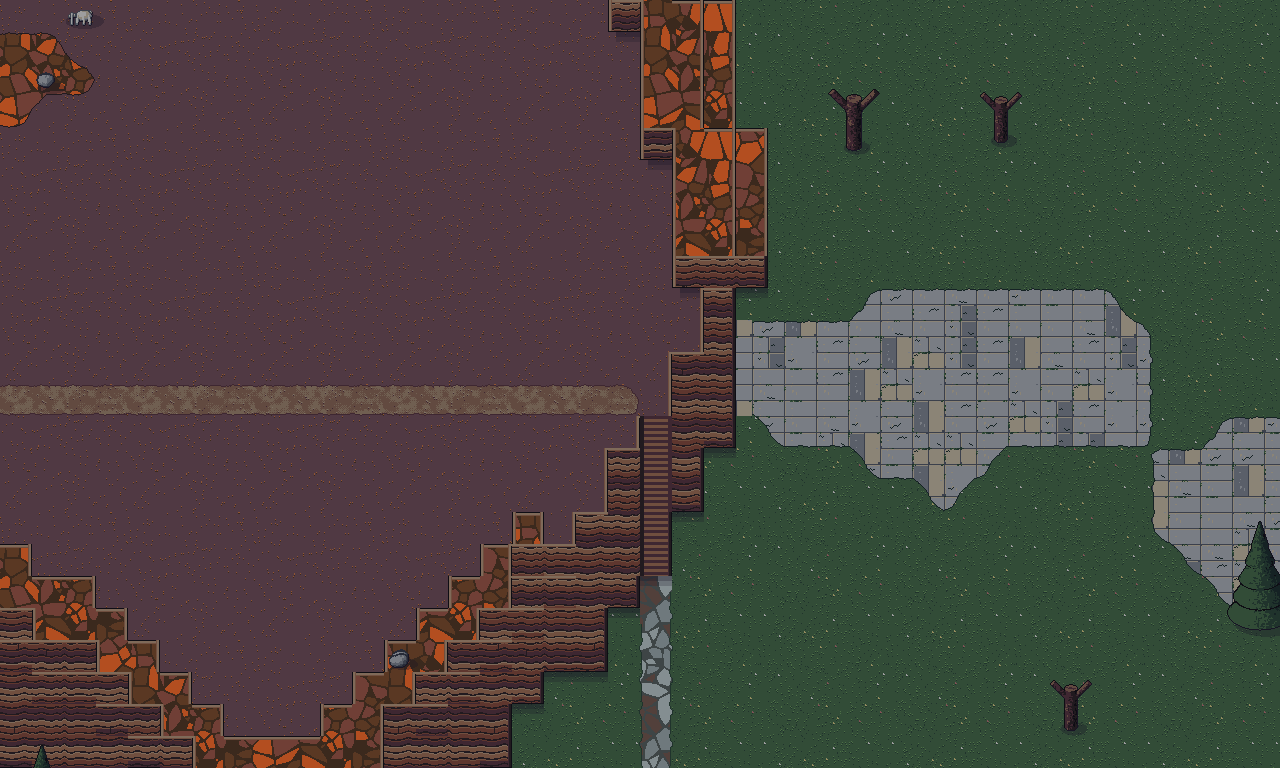
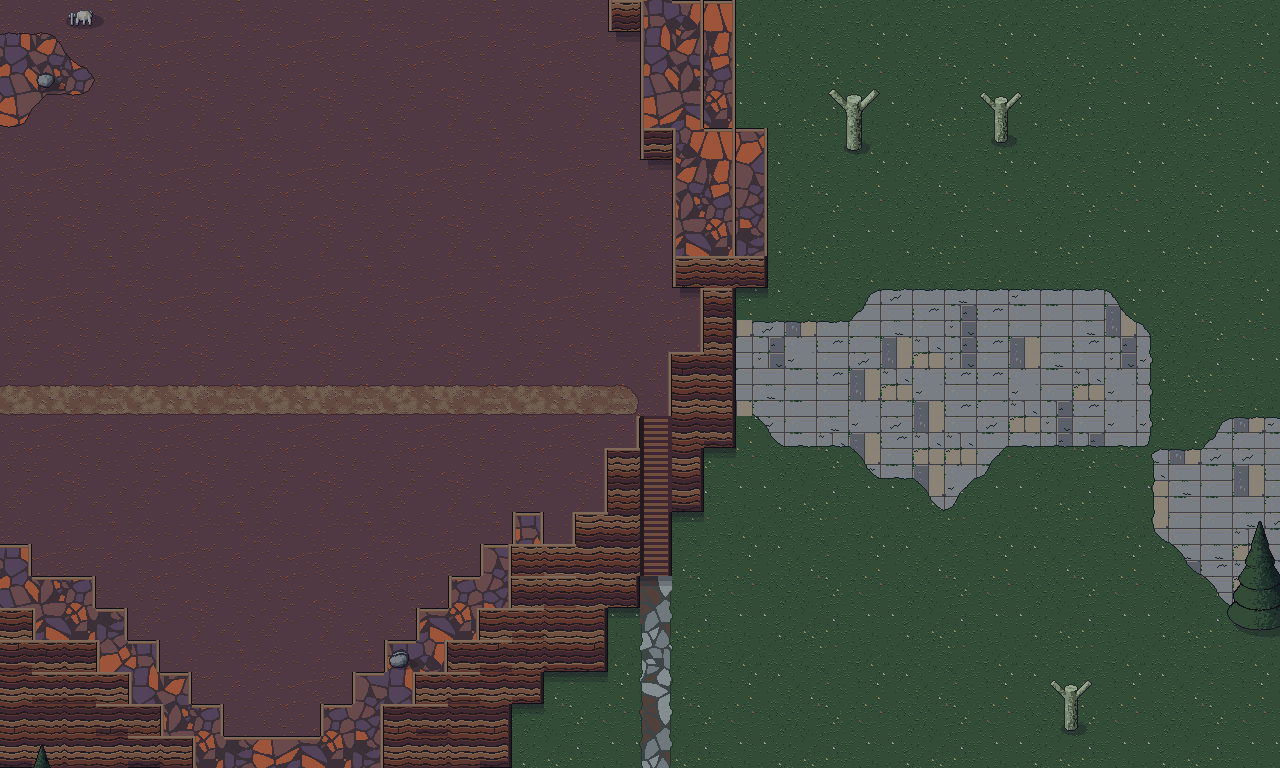
Modalita' cupa: rampe cupe dei materiali (trono nero e ruggine, tronchi muschiosi), isole della Frontiera piu' viola
Claude-Session: https://claude.ai/code/session_014ycMSkFAn8ixUvbSfrqtAR

diff --git a/tools/art/forge3d/terrain.py b/tools/art/forge3d/terrain.py
@@ -110,12 +110,12 @@ TERRAINS = {
     # livelli sotto; non si calpesta (water_mask). Il livello piu' basso: tutto il resto gli si disegna sopra
     "vuoto": dict(macro=8, ramp=["slate", "#76839c", "grey", "#a9b3c6"], ramp_cupo=["#939398", "#a6a9ad", "#babcbf", "#c8cbcf"], period=3, dither=0.6, detail="fog", rim=None,
                   level=-1, contrast=0.35, anim=4),
-    "nebbia": dict(macro=8, ramp=["#b8b0c8", "#cfc8db", "#e0dbe8", "#f0edf4"], ramp_cupo=["#231a20", "#3b3037", "#3b3037", "#574244"], period=3, dither=0.6, detail="fog", rim="light",
+    "nebbia": dict(macro=8, ramp=["#b8b0c8", "#cfc8db", "#e0dbe8", "#f0edf4"], ramp_cupo=["#231a20", "#352c3f", "#352c3f", "#4a3f55"], period=3, dither=0.6, detail="fog", rim="light",
                    rimc="#f0edf4", level=0.2, contrast=0.6, anim=4),
     # sabbia corallina: crema e avorio caldi, bianco solo nei riflessi (prima 3 bianchi su 4: sembrava neve)
     "sabbia_bianca": dict(ramp=["tan", "cream", "#f3e7cf", "white"], period=4, dither=0.5, detail="dots", rim="dark",
                           rimc="tan", level=2.2, contrast=0.45),
-    "erba_lilla": dict(macro=8, ramp=["#9a7fb0", "#b9a3cc", "#cdb8dc", "#e2d4ec"], ramp_cupo=["#3b3037", "#574244", "#615961", "#737076"], period=4, dither=0.5, detail="tufts", rim="dark",
+    "erba_lilla": dict(macro=8, ramp=["#9a7fb0", "#b9a3cc", "#cdb8dc", "#e2d4ec"], ramp_cupo=["#352c3f", "#4a3f55", "#615961", "#737076"], period=4, dither=0.5, detail="tufts", rim="dark",
                        rimc="#9a7fb0", level=4.4, contrast=0.4),
     "cenere": dict(ramp=["ink", "slate_d", "slate", "grey"], period=4, dither=0.5, detail="dots", rim="dark", rimc="ink",
                    level=7.6, contrast=0.3),
@@ -123,7 +123,7 @@ TERRAINS = {
                     rim="dark", rimc="brown_dd", level=8.1),
     "lamiera": dict(bordo="dritto", ramp=["slate_d", "slate", "grey", "grey_l"], period=4, dither=0.3, detail="plates", rim="dark",
                     rimc="navy", level=8.15, contrast=0.4),
-    "terra_rosa": dict(ramp=["#c99a9a", "#ddb3b0", "#e8c6c1", "#f3dcd6"], ramp_cupo=["#3b3037", "#574244", "#574244", "#8a8084"], period=4, dither=0.6, detail="pebbles", rim="dark",
+    "terra_rosa": dict(ramp=["#c99a9a", "#ddb3b0", "#e8c6c1", "#f3dcd6"], ramp_cupo=["#352c3f", "#574244", "#574244", "#8a8084"], period=4, dither=0.6, detail="pebbles", rim="dark",
                        rimc="#c99a9a", level=8.25, contrast=0.3),
     "lastre_rovine": dict(ramp=["teal_d", "grey", "grey_l", "cream"], period=4, dither=0.4, detail="slabs", slab=(2, 2),
                           rim="cliff", rimc="teal_d", level=8.9, contrast=0.5, varianti=8, erba=0.35, fuga="slate",
@@ -155,7 +155,7 @@ TERRAINS = {
                            rimc="ink", level=7.4, contrast=0.4),
     # vista dall'alto: lastre di roccia spaccate (le strisce sono della PARETE, forge3d/pareti.py: se la cima avesse
     # le strisce non si capirebbe dove finisce il pianoro e comincia la parete)
-    "arenaria": dict(ramp=["brown_dd", "brown_d", "brown", "rust"], ramp_cupo=["#3b291d", "#5a3823", "#703f36", "#b34e20"], period=4, dither=0.4, detail="cobbles", cells=5,
+    "arenaria": dict(ramp=["brown_dd", "brown_d", "brown", "rust"], ramp_cupo=["#3b3037", "#52435a", "#68494c", "#9e5438"], period=4, dither=0.4, detail="cobbles", cells=5,
                      rim="dark", rimc="brown_dd", level=9.0, contrast=0.6),
 }
 for _d in TERRAINS.values():                              # texture grande 4x4 tile dove il dettaglio lo consente:

diff --git a/tools/art/forge3d/materials.py b/tools/art/forge3d/materials.py
@@ -47,10 +47,14 @@ class Material:
     tex: tuple = None
     keep: bool = False
     emissive: bool = False
+    ramp_cupo: list = None
 
     @property
     def rgb(self):
-        """Colori nel tema corrente (forge3d/tema.py). Gli emissive restano accesi anche nel tema cupo."""
+        """Colori nel tema corrente (forge3d/tema.py). Gli emissive restano accesi anche nel tema cupo; nel cupo una
+        ramp_cupo del materiale (scelta sulla concept) vince sulla tabella."""
+        if tema.TEMA == "cupo" and self.ramp_cupo:
+            return [hex_to_rgb(c) for c in self.ramp_cupo]
         return [hex_to_rgb(c if self.emissive else tema.colore(c)) if isinstance(c, str) else tuple(c)
                 for c in self.ramp]
 
@@ -61,6 +65,8 @@ MATS = {}
 def define(name, ramp, **kw):
     """Crea (o sostituisce) un materiale. ramp: nomi della palette E32 oppure #hex."""
     cols = [E32.get(c, c) for c in ramp]
+    if kw.get("ramp_cupo"):
+        kw["ramp_cupo"] = [E32.get(c, c) for c in kw["ramp_cupo"]]
     MATS[name] = Material(name, cols, **kw)
     return MATS[name]
 
@@ -116,13 +122,17 @@ define("leather", ["brown_dd", "brown_d", "brown", "orange_d"])
 define("leather_dark", ["ink", "brown_dd", "brown_d", "brown"])
 define("wood", ["brown_dd", "brown_d", "brown", "orange_d"], tex=("stripes", "z", 1.4, 0.12))
 define("wood_light", ["brown_d", "brown", "tan", "cream"], tex=("stripes", "z", 1.4, 0.1))
-define("bark", ["ink", "brown_dd", "brown_d", "brown"], tex=("noise", 1.2, 0.22))
+define("bark", ["ink", "brown_dd", "brown_d", "brown"], tex=("noise", 1.2, 0.22),
+       ramp_cupo=["#232a24", "#4d5a48", "#798972", "#97a790"])   # cupo: tronchi muschiosi chiari (concept valle)
 define("steel", ["slate_d", "slate", "grey", "grey_l", "white"], spec=0.9, shin=30, contrast=1.1)
 define("iron", ["ink", "navy", "slate_d", "slate", "grey"], spec=0.6, shin=26)
 define("gold", ["brown_d", "orange", "amber", "yellow", "cream"], spec=0.9, shin=30)
 define("bronze", ["brown_dd", "brown_d", "orange_d", "amber", "yellow"], spec=0.6, shin=26)
 define("stone", ["navy", "slate_d", "slate", "grey"], tex=("noise", 1.1, 0.16))
 define("stone_light", ["slate_d", "slate", "grey", "grey_l"], tex=("noise", 1.1, 0.16))
+# Trono del Gigante: come "stone" nel luminoso; nel cupo roccia nera con le luci arancio del tramonto (concept trono)
+define("roccia_trono", ["navy", "slate_d", "slate", "grey"], tex=("noise", 1.1, 0.16),
+       ramp_cupo=["#1f1a1e", "#291f1c", "#3a2b26", "#9e5438"])
 define("brick", ["brown_dd", "brown_d", "rust", "orange_d"], tex=("noise", 0.9, 0.12))
 define("bone", ["slate", "grey", "grey_l", "cream", "white"])
 define("sand", ["brown", "tan", "cream", "skin_l"], tex=("noise", 1.5, 0.1))

diff --git a/tools/art/forge3d/creatures.py b/tools/art/forge3d/creatures.py
@@ -284,12 +284,12 @@ def trono(seed=1, size=1.0):
     rnd = random.Random(seed)
     r = Rig(f"trono_{seed}"); r.scale = size
     r.joint("t", "root", (0, 0, 0))
-    def blocco(dim, pos, mat="stone"):
+    def blocco(dim, pos, mat="roccia_trono"):
         r.part("t", "box", dim, pos, mat=mat, rot=(rnd.uniform(-3, 3), rnd.uniform(-3, 3), rnd.uniform(-4, 4)))
     blocco((13, 10, 1.6), (0, 1.5, 1.6))                          # gradini
     blocco((11, 8, 1.4), (0, 0.5, 4.4))
     blocco((9, 6.5, 3.2), (0, -0.5, 8.6))                         # seduta
-    blocco((9, 2.6, 13), (0, -6.4, 18), "stone")                  # schienale altissimo
+    blocco((9, 2.6, 13), (0, -6.4, 18))                           # schienale altissimo
     blocco((5, 2.2, 5), (-4.5, -6.6, 33.5))                       # cima spezzata, piu' alta a sinistra
     blocco((3.4, 2.2, 3), (4.6, -6.4, 30.5))
     for sx in (-1, 1):                                            # braccioli
